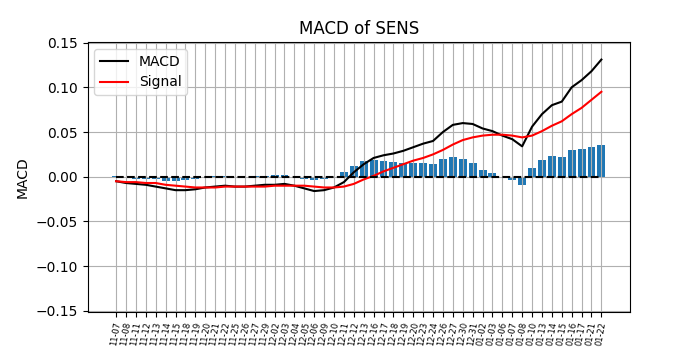
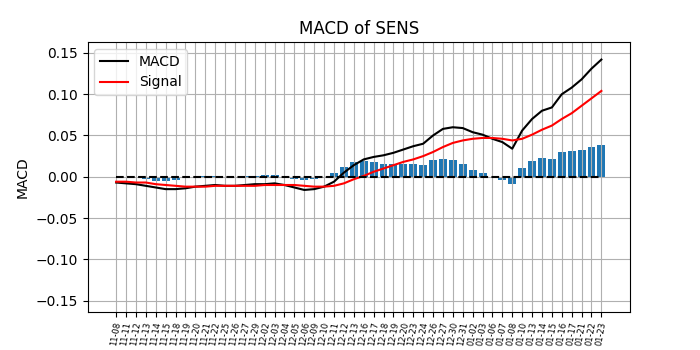
update plots

diff --git a/_posts/2025-01-23-VRTX.md b/_posts/2025-01-23-VRTX.md
@@ -2,7 +2,7 @@
 layout: post
 title: "VRTX"
 company: Vertex Pharma Inc.
-date: 2025-01-22 -0500
+date: 2025-01-23 -0500
 categories: biotech
 ---
 

diff --git a/_posts/2025-01-23-SENS.md b/_posts/2025-01-23-SENS.md
@@ -2,7 +2,7 @@
 layout: post
 title: "SENS"
 company: Sensionics Inc.
-date: 2025-01-22 -0500
+date: 2025-01-23 -0500
 categories: tech
 ---
 
